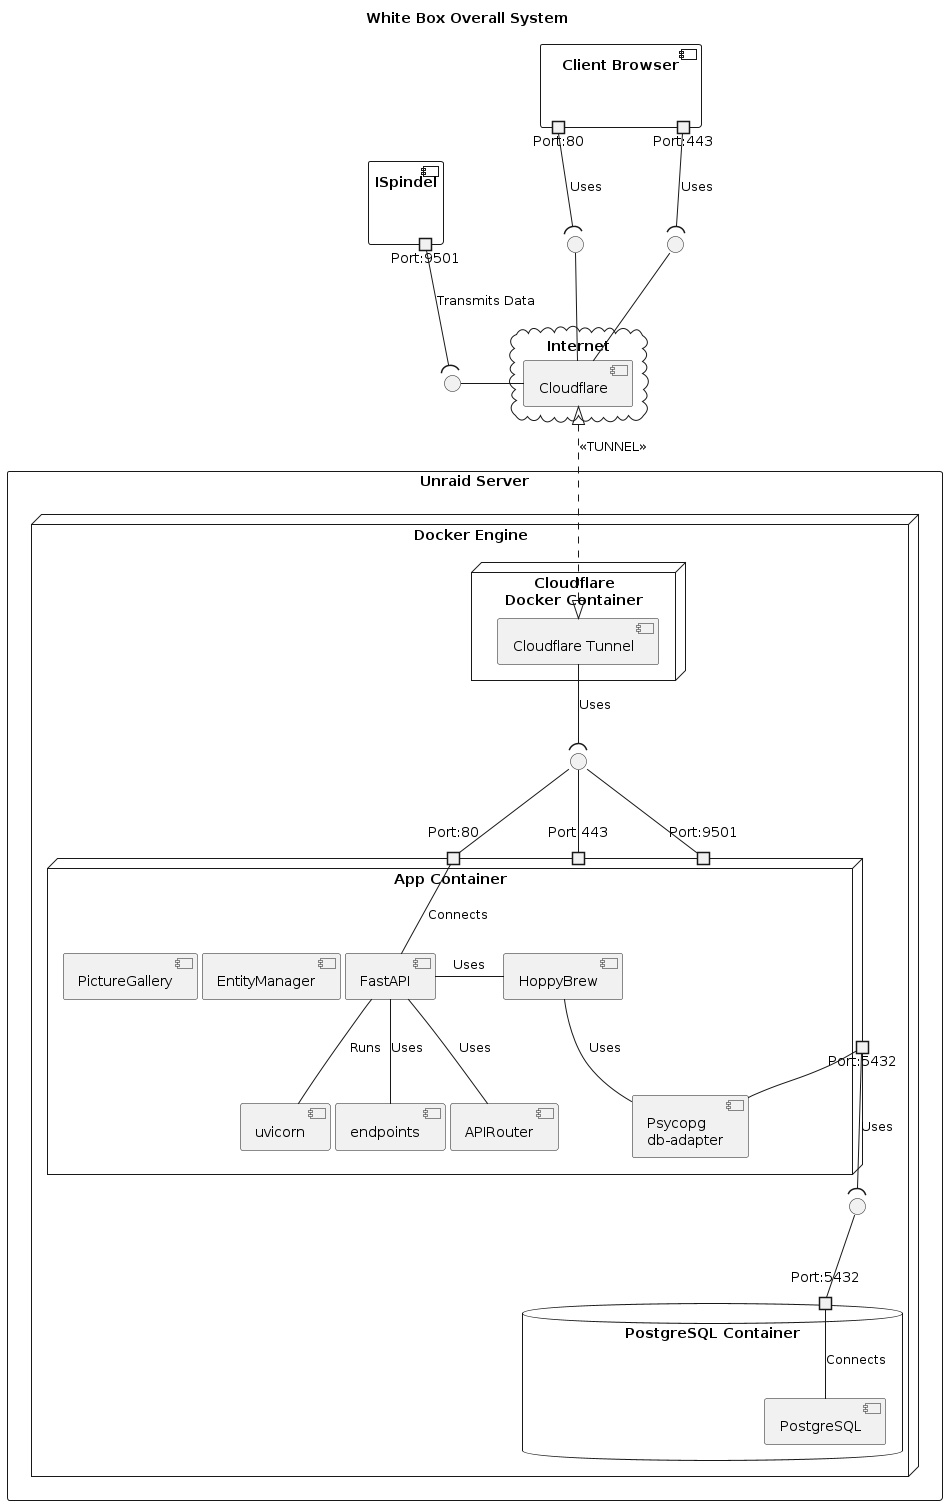
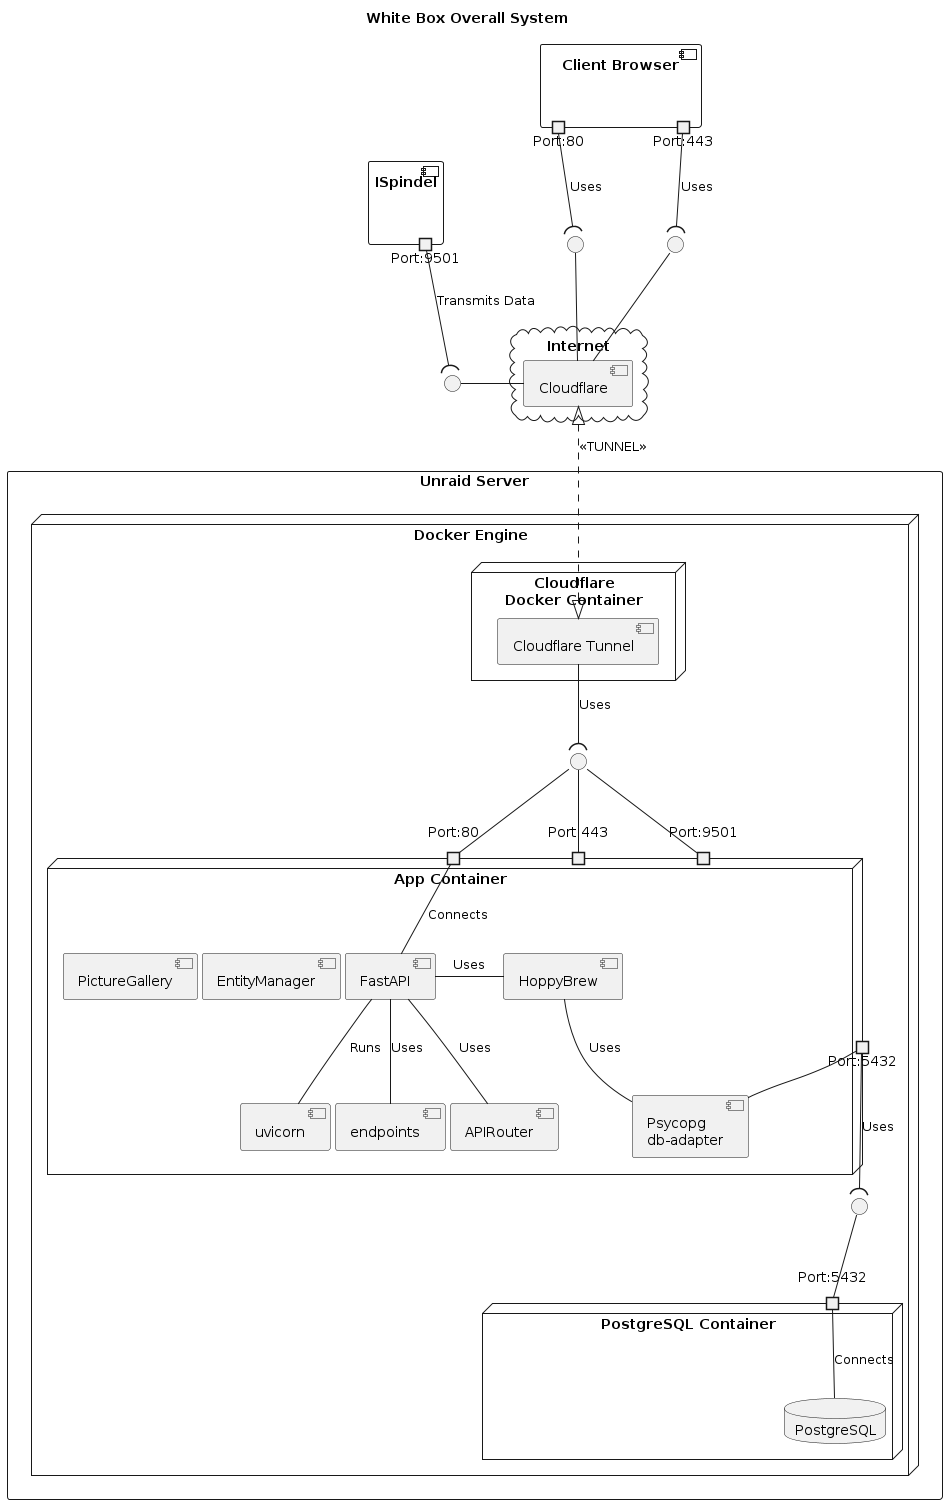
Update

diff --git a/documents/01-Conception-Phase/00-HoppyBrew.md b/documents/01-Conception-Phase/00-HoppyBrew.md
@@ -525,8 +525,8 @@ rectangle "Unraid Server" {
         I04 -- port443
         I04 -- port9501
 
-        database "PostgreSQL Container" {
-            component "PostgreSQL" as PostgreSQL
+        node "PostgreSQL Container" {
+            database "PostgreSQL" as PostgreSQL
             portin "Port:5432" as PostgreSQL_port5432
             PostgreSQL_port5432 - PostgreSQL : Connects
         }

diff --git a/documents/01-Conception-Phase/chapters/05_Building_Block_View.md b/documents/01-Conception-Phase/chapters/05_Building_Block_View.md
@@ -75,8 +75,8 @@ rectangle "Unraid Server" {
         I04 -- port443
         I04 -- port9501
 
-        database "PostgreSQL Container" {
-            component "PostgreSQL" as PostgreSQL
+        node "PostgreSQL Container" {
+            database "PostgreSQL" as PostgreSQL
             portin "Port:5432" as PostgreSQL_port5432
             PostgreSQL_port5432 - PostgreSQL : Connects
         }
